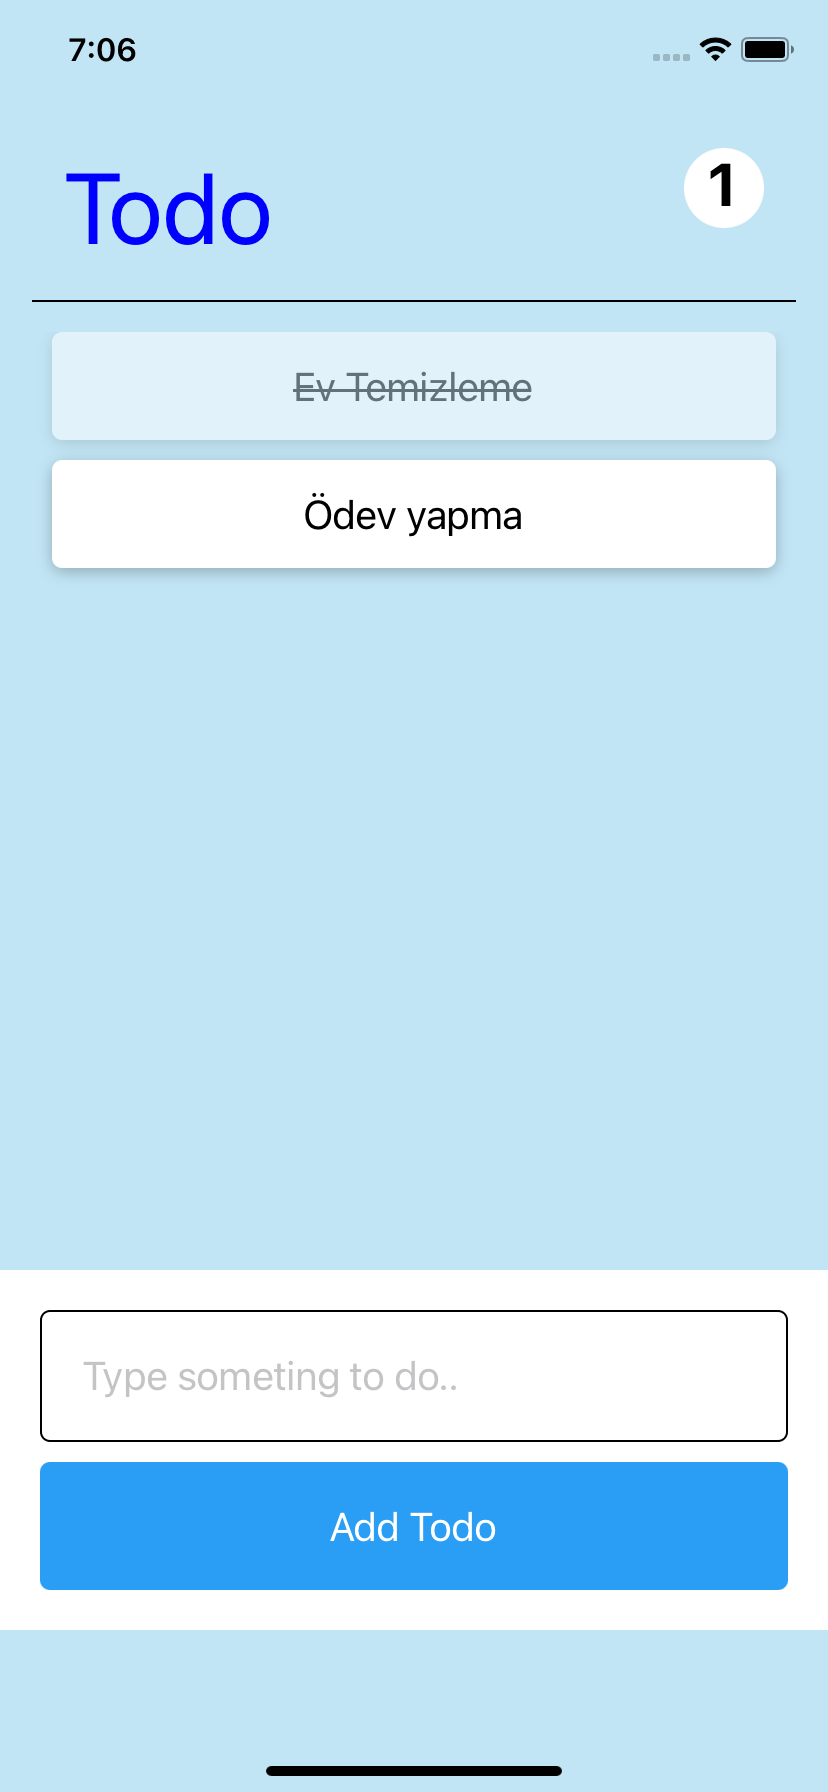
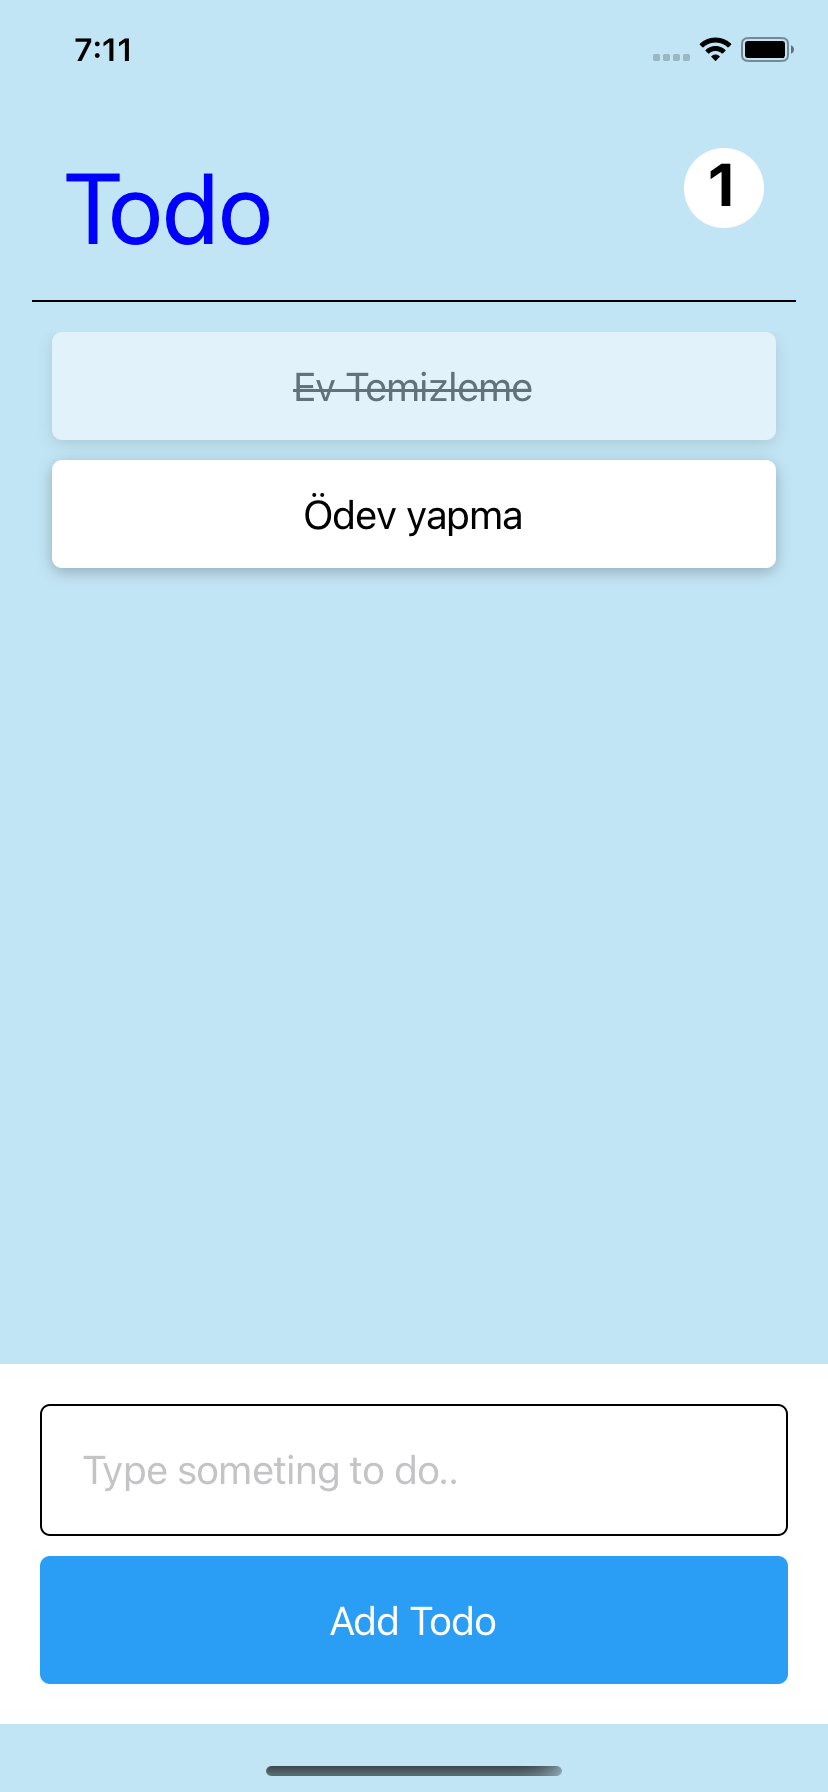
update styleing

Changed region(s): [[0.0, 0.8125, 1.0, 1.0], [0.0, 0.6875, 1.0, 0.7812], [0.0906, 0.0, 0.151, 0.0312]]

diff --git a/src/App.js b/src/App.js
@@ -78,6 +78,7 @@ const styles = StyleSheet.create({
   container: {
     flex: 1,
     backgroundColor: '#c2e5f5',
+    justifyContent: 'space-between',
   },
   header:{
     flexDirection: 'row',
@@ -112,6 +113,7 @@ const styles = StyleSheet.create({
     flex: 5,
   },
   footer: {
+    justifyContent: 'flex-end',
     flex: 2,
   }
 });
